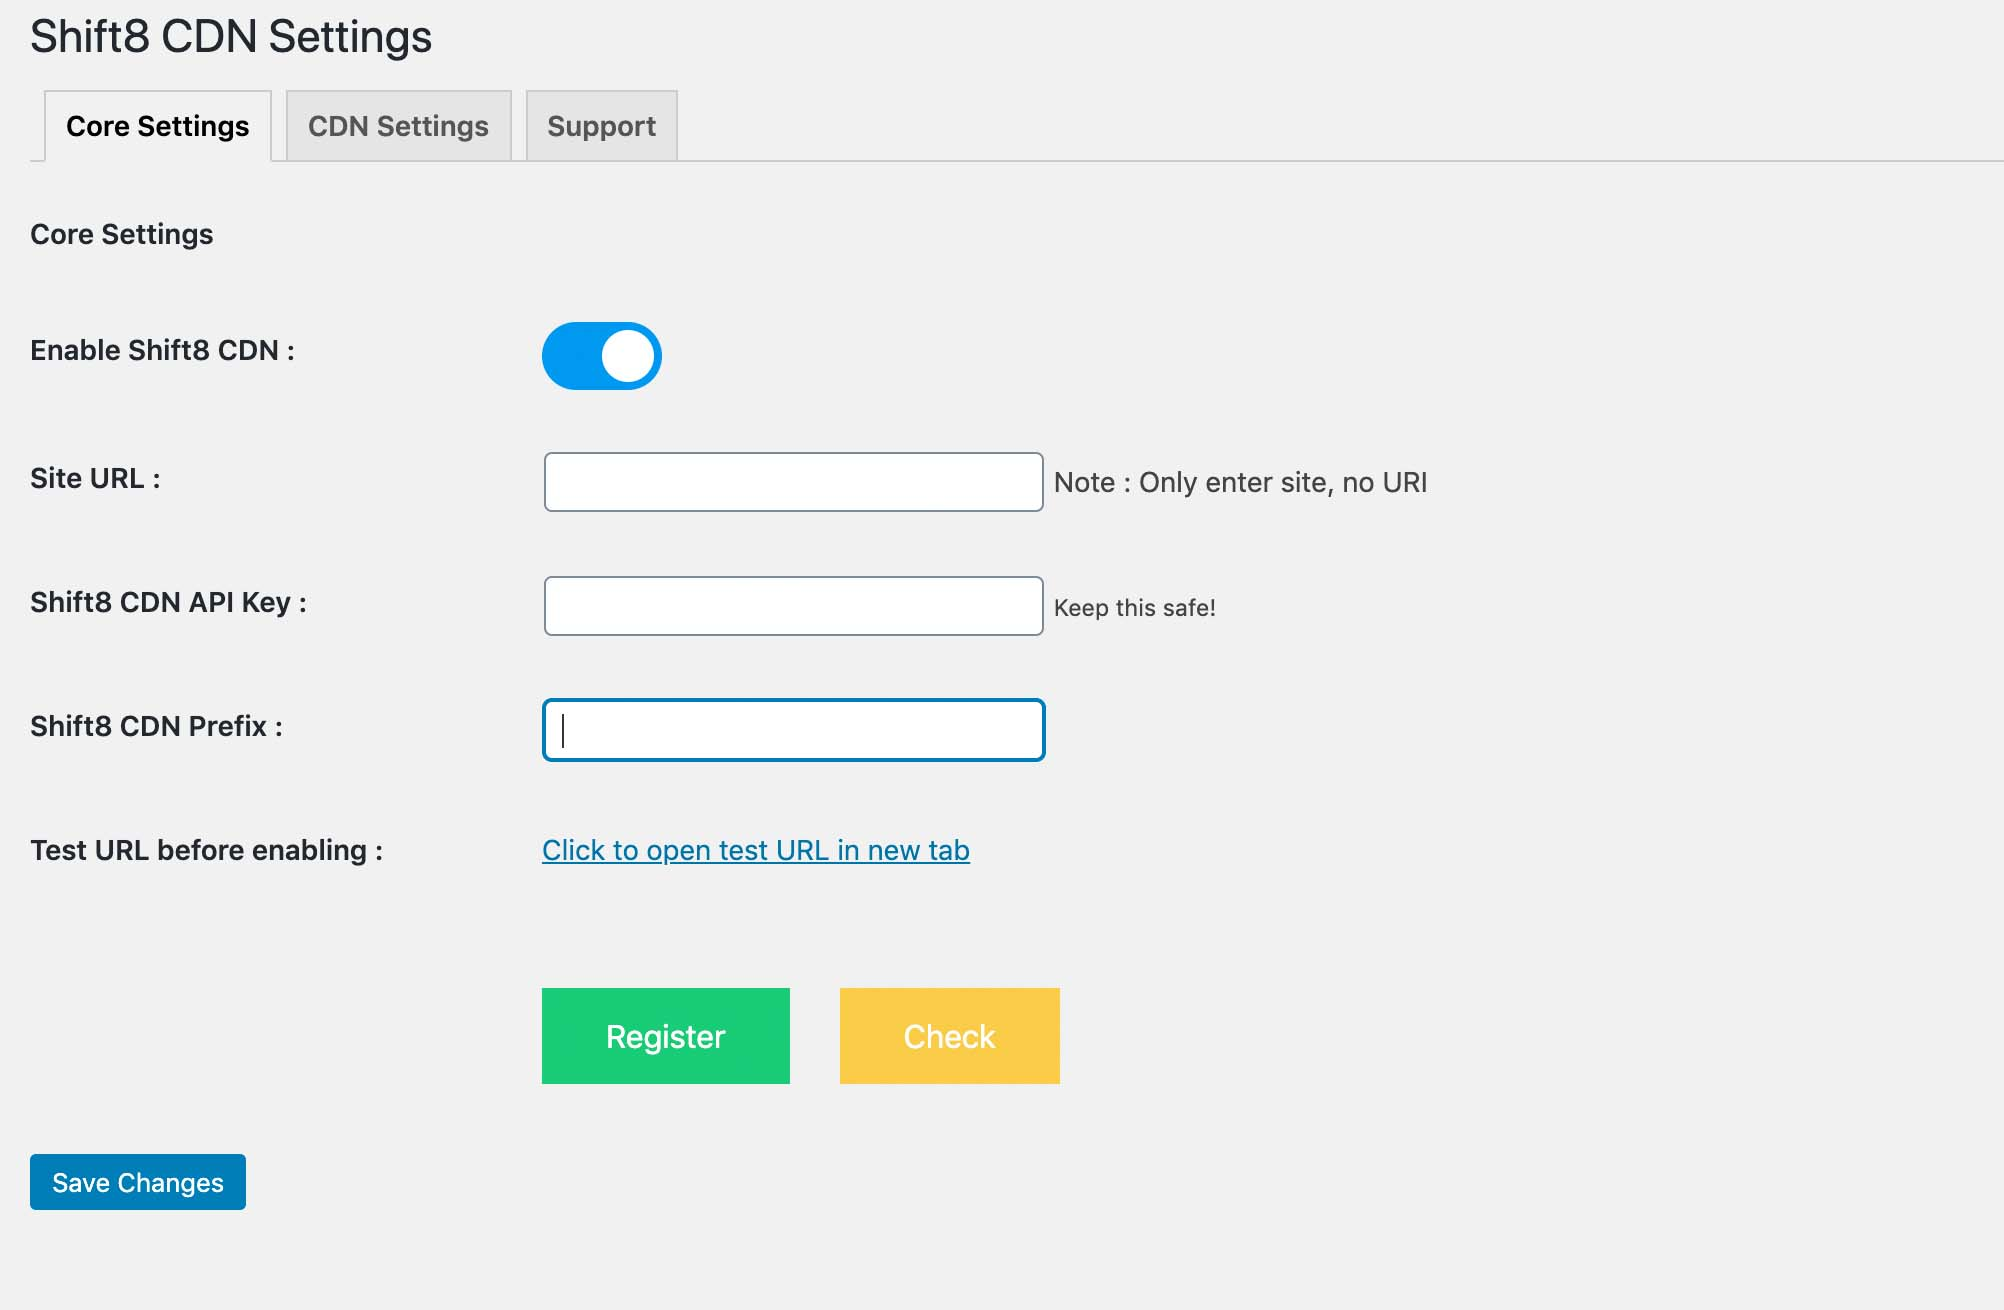
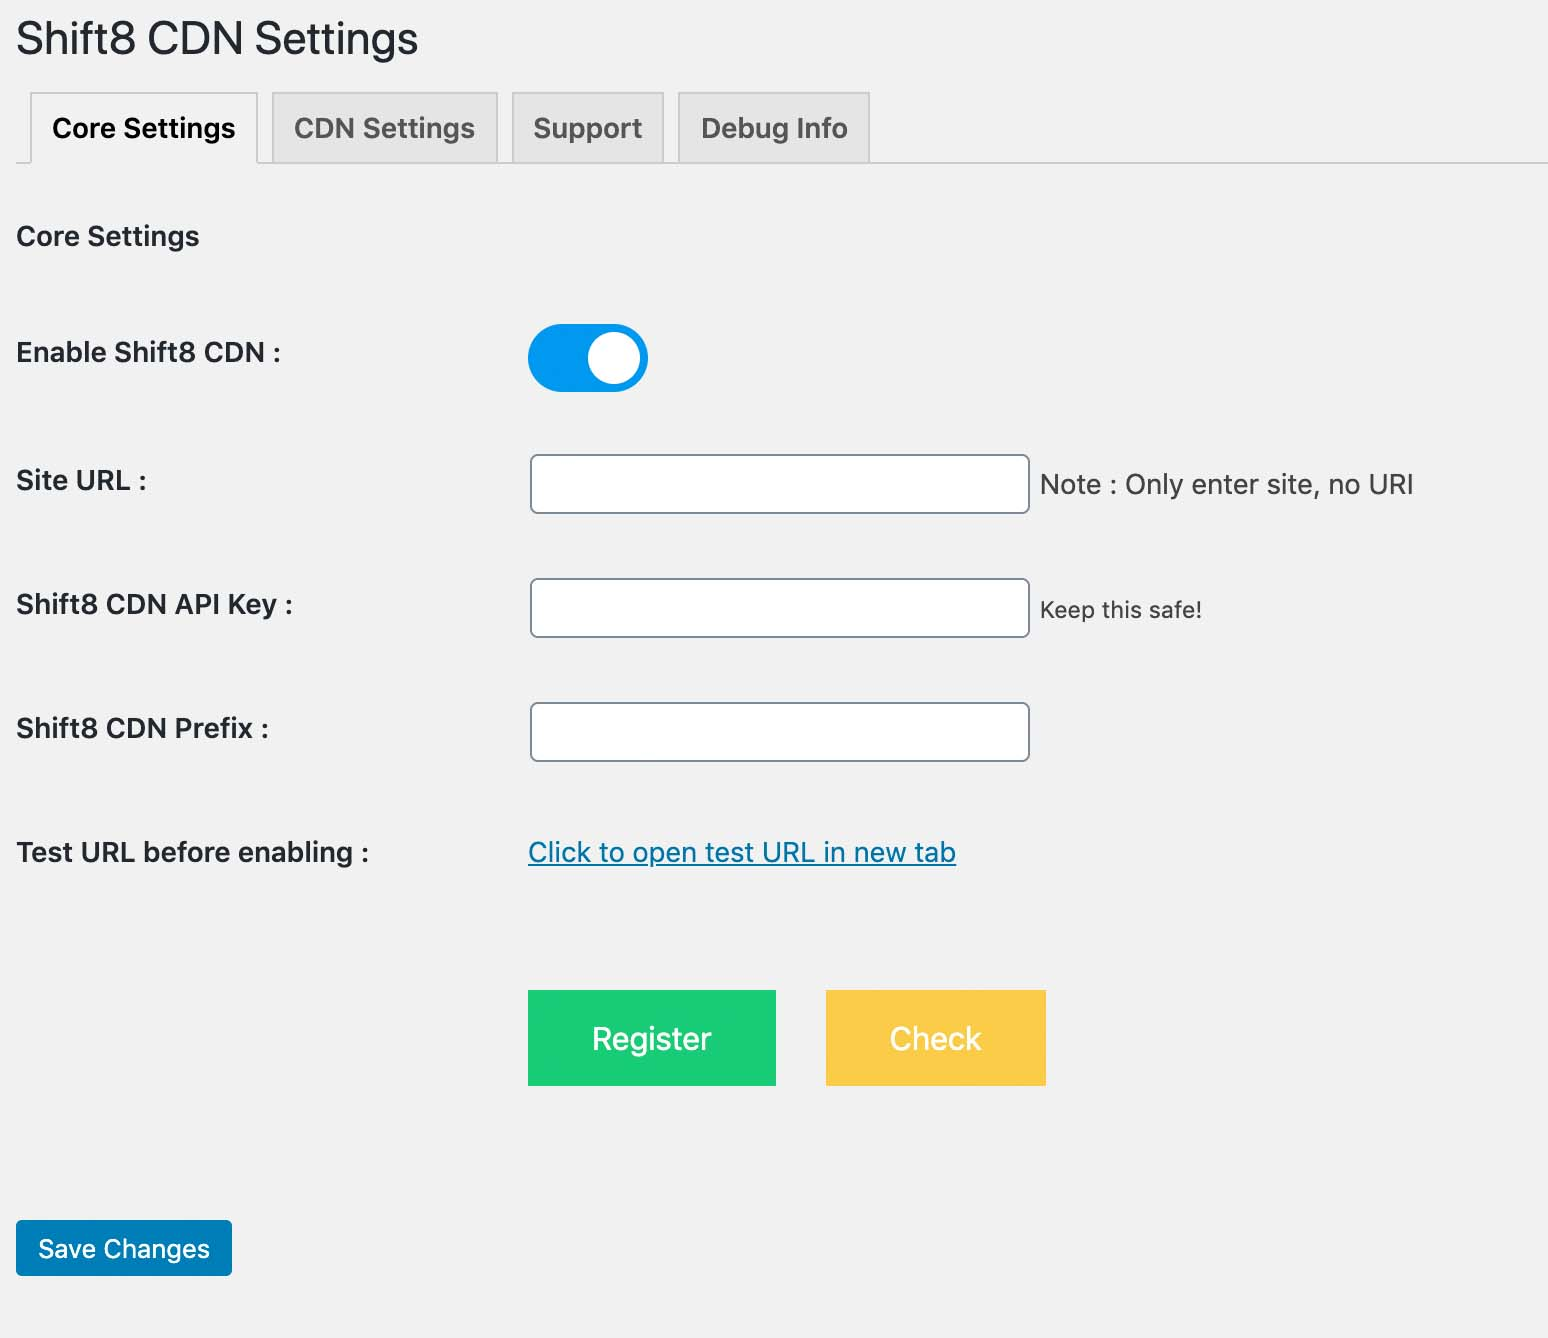
Added debug tab to admin settings to assist in gathering information to help troubleshooting and support issues

diff --git a/js/shift8_cdn_admin.js b/js/shift8_cdn_admin.js
@@ -32,3 +32,20 @@ jQuery(document).ready(function() {
         }); 
     });
 });
+
+
+function Shift8CDNCopyToClipboard(containerid) {
+    if (document.selection) { 
+        var range = document.body.createTextRange();
+        range.moveToElementText(document.getElementById(containerid));
+        range.select().createTextRange();
+        document.execCommand("copy"); 
+
+    } else if (window.getSelection) {
+        var range = document.createRange();
+         range.selectNode(document.getElementById(containerid));
+         window.getSelection().addRange(range);
+         document.execCommand("copy");
+         alert("text copied") 
+    }
+}

diff --git a/css/shift8_cdn_admin.css b/css/shift8_cdn_admin.css
@@ -28,6 +28,12 @@
     background-color: #f57e75;
     cursor:pointer;
 }
+.shift8-cdn-button-copyclipboard {
+    background-color: #f436d4;
+}
+.shift8-cdn-button-copyclipboard:hover {
+    background-color: #6f1660;
+}
 .shift8-cdn-button-container {
 	text-align:center;
 	margin:0 auto;

diff --git a/shift8-cdn.php b/shift8-cdn.php
@@ -3,7 +3,7 @@
  * Plugin Name: Shift8 CDN 
  * Plugin URI: https://github.com/stardothosting/shift8-cdn
  * Description: Plugin that integrates a fully functional CDN service
- * Version: 1.31
+ * Version: 1.32
  * Author: Shift8 Web 
  * Author URI: https://www.shift8web.ca
  * License: GPLv3
@@ -41,6 +41,7 @@ $plugin_name = $plugin_data['TextDomain'];
     <a href="?page=<?php echo $plugin_name; ?>%2Fcomponents%2Fsettings.php%2Fcustom&tab=core_settings" class="nav-tab <?php echo $active_tab == 'core_settings' ? 'nav-tab-active' : ''; ?>">Core Settings</a>
     <a href="?page=<?php echo $plugin_name; ?>%2Fcomponents%2Fsettings.php%2Fcustom&tab=cdn_options" class="nav-tab <?php echo $active_tab == 'cdn_options' ? 'nav-tab-active' : ''; ?>">CDN Settings</a>
     <a href="?page=<?php echo $plugin_name; ?>%2Fcomponents%2Fsettings.php%2Fcustom&tab=support_options" class="nav-tab <?php echo $active_tab == 'support_options' ? 'nav-tab-active' : ''; ?>">Support</a>
+    <a href="?page=<?php echo $plugin_name; ?>%2Fcomponents%2Fsettings.php%2Fcustom&tab=debug_info" class="nav-tab <?php echo $active_tab == 'debug_info' ? 'nav-tab-active' : ''; ?>">Debug Info</a>
 </h2>
 
 <form method="post" action="options.php">
@@ -129,7 +130,7 @@ $plugin_name = $plugin_data['TextDomain'];
     </div>
     </td>
     </tr>
-</tbody>
+    </tbody>
     <!-- CDN SETTINGS TAB -->
     <tbody class="<?php echo $active_tab == 'cdn_options' ? 'shift8-cdn-admin-tab-active' : 'shift8-cdn-admin-tab-inactive'; ?>">
     <tr valign="top">
@@ -147,7 +148,7 @@ $plugin_name = $plugin_data['TextDomain'];
     <th scope="row">Enable CDN for Media files : </th>
     <td><input type="checkbox" name="shift8_cdn_media" size="34" <?php echo (empty(esc_attr(get_option('shift8_cdn_media'))) ? '' : 'checked'); ?>></td>
     </tr>
-</tbody>
+    </tbody>
     <!-- SUPPORT TAB -->
     <tbody class="<?php echo $active_tab == 'support_options' ? 'shift8-cdn-admin-tab-active' : 'shift8-cdn-admin-tab-inactive'; ?>">
     <tr valign="top">
@@ -157,10 +158,44 @@ $plugin_name = $plugin_data['TextDomain'];
     <td style="width:500px;">If you are experiencing difficulties, you can receive support if you Visit the <a href="https://wordpress.org/support/plugin/shift8-cdn/" target="_new">Shift8 CDN Wordpress support page</a> and post your question there.
     </td>
     </tr>
-</tbody>
+    </tbody>
+    <!-- DEBUG TAB -->
+    <tbody class="<?php echo $active_tab == 'debug_info' ? 'shift8-cdn-admin-tab-active' : 'shift8-cdn-admin-tab-inactive'; ?>">
+    <tr valign="top">
+    <th scope="row">Debug Info</th>
+    </tr>
+    <tr valign="top">
+    <td style="width:500px;">Providing this information to the Shift8 CDN support team may be helpful in them assisting in diagnosing any issues you may be having. <br /><br /> 
+    <div class="shift8-cdn-button-container">
+    </div><button class="shift8-cdn-button shift8-cdn-button-copyclipboard" id="button1" onclick="Shift8CDNCopyToClipboard('shift8cdn-debug')">Copy info below to clipboard</button>
+    <br /><br />
+    <script type="text/javascript">
+        function showDetails(id) {
+            document.getElementById(id).style.display = 'block';
+        }
+        function hideDetails(id) {
+            document.getElementById(id).style.display = 'none';
+        }
+    </script>
+    <div class="wrap">
+        <div class="postbox" id="shift8cdn-debug">
+            <h2><?php _e('Shift8 CDN Debug Info'); ?></h2>
+            <p><?php echo shift8_cdn_debug_version_check(); ?></p>
+        </div>
+        <!--<div class="postbox" id="shift8cdn-debugphp">
+            <h2><?php _e('Shift8 CDN PHP Debug Info'); ?></h2>
+            <p><?php _e('For more detailed PHP server related information, click the Show Details link below.'); ?></p>
+            <a href="#" onclick="showDetails('details'); return false;"><?php _e('Show Details'); ?></a>
+            <a href="#" onclick="hideDetails('details'); return false;"><?php _e('Hide Details'); ?></a>
+            <span id="details" style="display: none;"><?php echo shift8_cdn_debug_get_php_info(); ?></span>
+        </div>-->
+    </div>
+    </td>
+    </tr>
+    </tbody>
     </table>
     <?php 
-    if ($active_tab != 'support_options') {
+    if ($active_tab !== 'support_options' && $active_tab !== 'debug_info') {
         submit_button(); 
     }
     ?>

diff --git a/components/functions.php b/components/functions.php
@@ -129,3 +129,97 @@ function shift8_cdn_prefetch() {
 }
 
 add_action('wp_head', 'shift8_cdn_prefetch', 0);
+
+
+// Functions to produce debugging information
+
+function shift8_cdn_debug_get_php_info() {
+    //retrieve php info for current server
+    if (!function_exists('ob_start') || !function_exists('phpinfo') || !function_exists('ob_get_contents') || !function_exists('ob_end_clean') || !function_exists('preg_replace')) {
+        echo 'This information is not available.';
+    } else {
+        ob_start();
+        phpinfo();
+        $pinfo = ob_get_contents();
+        ob_end_clean();
+
+        $pinfo = preg_replace( '%^.*<body>(.*)</body>.*$%ms','$1',$pinfo);
+        echo $pinfo;
+    }
+}
+
+function shift8_cdn_debug_get_mysql_version() {
+        global $wpdb;
+        $rows = $wpdb->get_results('select version() as mysqlversion');
+        if (!empty($rows)) {
+             return $rows[0]->mysqlversion;
+        }
+        return false;
+    }
+
+function shift8_cdn_debug_version_check() {
+    //outputs basic information
+    $notavailable = __('This information is not available.');
+    if ( !function_exists( 'get_bloginfo' ) ) {
+        $wp = $notavailable;
+    } else {
+        $wp = get_bloginfo( 'version' );
+    }
+
+    if ( !function_exists( 'wp_get_theme' ) ) {
+        $theme = $notavailable;
+    } else {
+        $theme = wp_get_theme();
+    }
+
+    if ( !function_exists( 'get_plugins' ) ) {
+        $plugins = $notavailable;
+    } else {
+        $plugins_list = get_plugins();
+        if( is_array( $plugins_list ) ){
+            $active_plugins = '';
+            $plugins = '<ul>';
+            foreach ( $plugins_list as $plugin ) {
+                $version = '' != $plugin['Version'] ? $plugin['Version'] : __( 'Unversioned', 'debug-info' );
+                if( !empty( $plugin['PluginURI'] ) ){
+                    $plugins .= '<li><a href="' . $plugin['PluginURI'] . '">' . $plugin['Name'] . '</a> (' . $version . ')</li>';
+                } else {
+                    $plugins .= '<li>' . $plugin['Name'] . ' (' . $version . ')</li>';
+                }
+            }
+            $plugins .= '</ul>';
+        }
+    }
+
+    if ( !function_exists( 'phpversion' ) ) {
+        $php = $notavailable;
+    } else {
+        $php = phpversion();
+    }
+
+    if ( !function_exists( 'debug_info_get_mysql_version' ) ) {
+        $mysql = $notavailable;
+    } else {
+        $mysql = debug_info_get_mysql_version();
+    }
+
+    if ( !function_exists( 'apache_get_version' ) ) {
+        $apache = $notavailable;
+    } else {
+        $apache = apache_get_version();
+    }
+
+    $themeversion   = $theme->get( 'Name' ) . __( ' version ', 'debug-info' ) . $theme->get( 'Version' ) . $theme->get( 'Template' );
+    $themeauth      = $theme->get( 'Author' ) . ' - ' . $theme->get( 'AuthorURI' );
+    $uri            = $theme->get( 'ThemeURI' );
+
+    echo '<strong>' . __( 'WordPress Version: ' ) . '</strong>' . $wp . '<br />';
+    echo '<strong>' . __( 'Current WordPress Theme: ' ) . '</strong>' . $themeversion . '<br />';
+    echo '<strong>' . __( 'Theme Author: ' ) . '</strong>' . $themeauth . '<br />';
+    echo '<strong>' . __( 'Theme URI: ' ) . '</strong>' . $uri . '<br />';
+    echo '<strong>' . __( 'PHP Version: ' ) . '</strong>' . $php . '<br />';
+    echo '<strong>' . __( 'MySQL Version: ' ) . '</strong>' . $mysql . '<br />';
+    echo '<strong>' . __( 'Apache Version: ' ) . '</strong>' . $apache . '<br />';
+    echo '<strong>' . __( 'Active Plugins: ' ) . '</strong>' . $plugins . '<br />';
+
+}

diff --git a/components/enqueuing.php b/components/enqueuing.php
@@ -3,8 +3,8 @@
 // Register admin scripts for custom fields
 function load_shift8_cdn_wp_admin_style() {
         // admin always last
-        wp_enqueue_style( 'shift8_cdn_css', plugin_dir_url(dirname(__FILE__)) . 'css/shift8_cdn_admin.css', array(), '1.8' );
-        wp_enqueue_script( 'shift8_cdn_script', plugin_dir_url(dirname(__FILE__)) . 'js/shift8_cdn_admin.js', array(), '2.0' );
+        wp_enqueue_style( 'shift8_cdn_css', plugin_dir_url(dirname(__FILE__)) . 'css/shift8_cdn_admin.css', array(), '1.9' );
+        wp_enqueue_script( 'shift8_cdn_script', plugin_dir_url(dirname(__FILE__)) . 'js/shift8_cdn_admin.js', array(), '2.1' );
 
         wp_localize_script( 'shift8_cdn_script', 'the_ajax_script', array( 
             'ajaxurl' => admin_url( 'admin-ajax.php' ),

diff --git a/README.md b/README.md
@@ -4,7 +4,7 @@
 * Tags: cdn, free cdn, speed, performance, wordpress cache, content delivery network, free, free content delivery, free content delivery network
 * Requires at least: 3.0.1
 * Tested up to: 5.3
-* Stable tag: 1.31
+* Stable tag: 1.32
 * License: GPLv3
 * License URI: http://www.gnu.org/licenses/gpl-3.0.html
 
@@ -195,3 +195,6 @@ This is a known issue with how lazy loading is implemented in some scenarios. Cu
 
 ### 1.31
 * Updated instruction note in settings page for registration
+
+### 1.32
+* Added a debug tab in the settings to allow gathering of debug information to assist in troubleshooting problems
